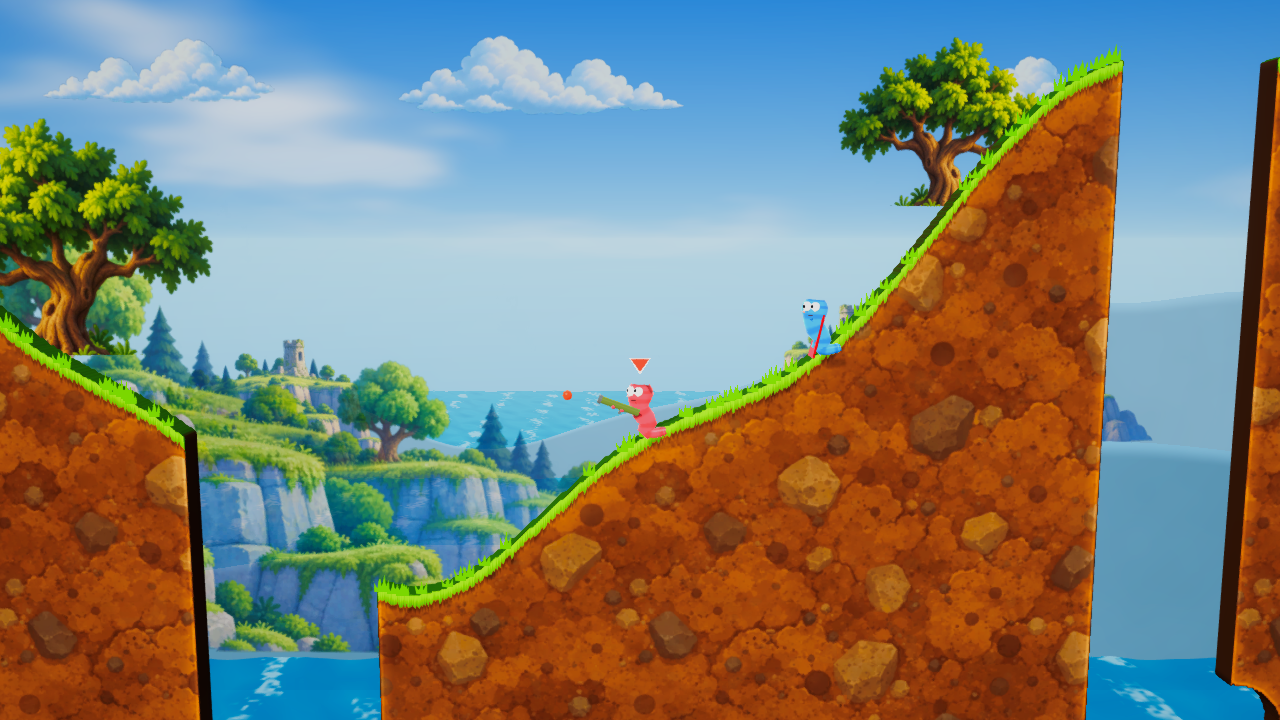
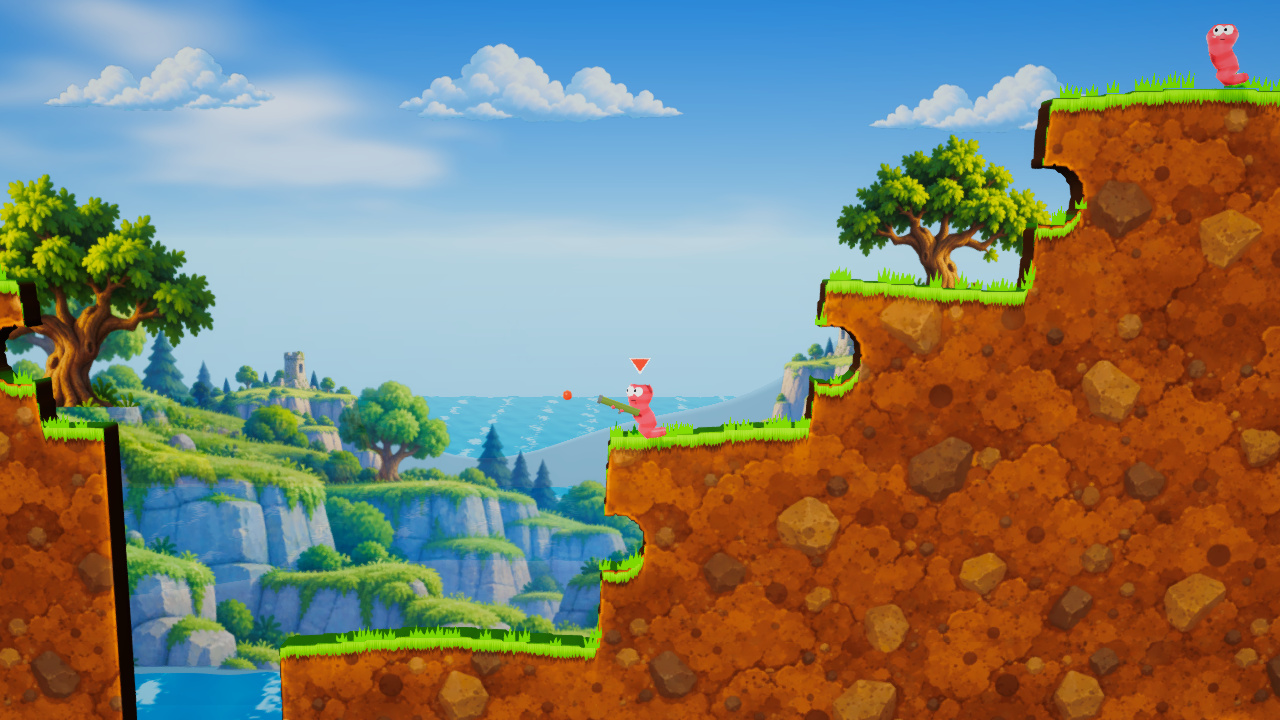
graphics: generate terraced destructible maps and safe spawns

diff --git a/shared/Sim.Tests/TerrainTests.cs b/shared/Sim.Tests/TerrainTests.cs
@@ -23,6 +23,92 @@ namespace Worms.Sim.Tests
             Assert.False(t.IsSolid(0, t.Height / 3)); // edges taper into the sea
         }
 
+        [Theory]
+        [InlineData(5u)]
+        [InlineData(123456u)]
+        [InlineData(123457u)]
+        public void GeneratedMapHasBroadTerracesAndInteriorCliffs(uint seed)
+        {
+            var t = MapGenerator.Generate(seed);
+            var surface = new int[t.Width];
+            for (int x = 0; x < t.Width; x++)
+            {
+                surface[x] = -1;
+                for (int y = 0; y < t.Height; y++)
+                    if (t.IsSolid(x, y)) { surface[x] = y; break; }
+            }
+
+            int broadTerraces = 0, interiorCliffs = 0, run = 0, steepestCell = 0, steepestX = -1;
+            for (int x = 81; x < t.Width - 81; x++)
+            {
+                int a = surface[x - 1], b = surface[x];
+                if (a < 0 || b < 0) { run = 0; continue; }
+                int cellRise = System.Math.Abs(b - a);
+                if (cellRise > steepestCell) { steepestCell = cellRise; steepestX = x; }
+                if (cellRise <= 3) run++;
+                else
+                {
+                    if (run >= 55) broadTerraces++;
+                    run = 0;
+                }
+                if (x + 8 < t.Width && surface[x + 8] >= 0 &&
+                    System.Math.Abs(surface[x + 8] - a) >= 40)
+                {
+                    interiorCliffs++;
+                    x += 8;
+                }
+            }
+            if (run >= 55) broadTerraces++;
+            Assert.True(broadTerraces >= 4, $"Seed {seed}: only {broadTerraces} broad terraces");
+            Assert.True(interiorCliffs >= 3, $"Seed {seed}: only {interiorCliffs} interior cliffs");
+            Assert.True(steepestCell <= 55, $"Seed {seed}: a {steepestCell}-cell vertical wall at x={steepestX} ({surface[steepestX - 1]} to {surface[steepestX]}) looks like a box");
+        }
+
+        [Theory]
+        [InlineData(0u)]
+        [InlineData(1u)]
+        [InlineData(42u)]
+        [InlineData(5u)]
+        [InlineData(9999u)]
+        [InlineData(123456u)]
+        [InlineData(123457u)]
+        public void WormsSpawnStandingOnTerracedMap(uint seed)
+        {
+            var world = new World(new MatchSetup { Seed = seed, Teams = 4, WormsPerTeam = 4 });
+            foreach (var worm in world.Worms)
+            {
+                Assert.True(Worm.IsStanding(world.Terrain, worm.Pos),
+                    $"Seed {seed}: worm {worm.Id} is not standing at {worm.Pos}");
+                Assert.True(worm.Pos.Y < world.WaterLevel - 3 * C.WormRadius,
+                    $"Seed {seed}: worm {worm.Id} spawned too close to water");
+                int x = (int)worm.Pos.X;
+                float? left = world.SurfaceY(x - 18), right = world.SurfaceY(x + 18);
+                Assert.True(left.HasValue && right.HasValue &&
+                    System.Math.Abs(left.Value - worm.Pos.Y) <= C.MaxClimb &&
+                    System.Math.Abs(right.Value - worm.Pos.Y) <= C.MaxClimb,
+                    $"Seed {seed}: worm {worm.Id} spawned too close to a cliff");
+            }
+        }
+
+        [Fact]
+        public void FourTeamSpawnsRemainSafeAcrossManySeeds()
+        {
+            for (uint seed = 0; seed < 32; seed++)
+            {
+                var world = new World(new MatchSetup { Seed = seed, Teams = 4, WormsPerTeam = 4 });
+                foreach (var worm in world.Worms)
+                {
+                    int x = (int)worm.Pos.X;
+                    float? left = world.SurfaceY(x - 18), right = world.SurfaceY(x + 18);
+                    Assert.True(Worm.IsStanding(world.Terrain, worm.Pos) &&
+                        left.HasValue && right.HasValue &&
+                        System.Math.Abs(left.Value - worm.Pos.Y) <= C.MaxClimb &&
+                        System.Math.Abs(right.Value - worm.Pos.Y) <= C.MaxClimb,
+                        $"Seed {seed}: worm {worm.Id} lacks a safe shelf");
+                }
+            }
+        }
+
         [Fact]
         public void CarveRemovesExactlyTheDisc()
         {

diff --git a/shared/com.worms.sim/Runtime/MapGenerator.cs b/shared/com.worms.sim/Runtime/MapGenerator.cs
@@ -14,17 +14,50 @@ namespace Worms.Sim
             float baseY = height * rng.Range(0.42f, 0.52f);
             float a1 = rng.Range(80f, 140f), f1 = twoPi / width * rng.Range(1f, 2f), p1 = rng.Range(0f, twoPi);
             float a2 = rng.Range(30f, 70f), f2 = twoPi / width * rng.Range(3f, 5f), p2 = rng.Range(0f, twoPi);
-            float a3 = rng.Range(8f, 20f), f3 = twoPi / width * rng.Range(9f, 14f), p3 = rng.Range(0f, twoPi);
+            float f3 = twoPi / width * rng.Range(9f, 14f), p3 = rng.Range(0f, twoPi);
             int margin = 60;
+            const float terraceHeight = 80f;
+            var surfaceTops = new int[width];
 
             for (int x = 0; x < width; x++)
             {
-                float surface = baseY + a1 * (float)Math.Sin(x * f1 + p1) + a2 * (float)Math.Sin(x * f2 + p2) + a3 * (float)Math.Sin(x * f3 + p3);
+                float surface = baseY + a1 * (float)Math.Sin(x * f1 + p1) + a2 * (float)Math.Sin(x * f2 + p2);
                 // Taper both edges down into the sea so the map reads as islands.
                 float edge = Math.Min(x, width - 1 - x);
                 if (edge < margin * 3) surface += (margin * 3 - edge) * 1.6f;
-                int top = Math.Max(120, (int)surface);
-                t.FillRect(x, top, x + 1, height, true);
+                // The collision mask itself forms wide playable shelves and sharp cliffs.
+                // A small ripple breaks up the top line without adding impassable bumps.
+                int level = (int)Math.Round(surface / terraceHeight);
+                float terrace = level * terraceHeight + 10f * (float)Math.Sin(level * 2.37f + p1);
+                float ripple = 2.5f * (float)Math.Sin(x * f3 + p3);
+                int top = Math.Max(120, (int)(terrace + ripple));
+                surfaceTops[x] = top;
+            }
+
+            var squareTops = (int[])surfaceTops.Clone();
+            for (int x = 4; x < width - 4; x++)
+            {
+                if (Math.Abs(squareTops[x] - squareTops[x - 1]) < 40) continue;
+                int left = squareTops[x - 4], right = squareTops[x + 4];
+                for (int offset = -3; offset <= 3; offset++)
+                {
+                    float blend = (offset + 4) / 8f;
+                    blend = blend * blend * (3f - 2f * blend);
+                    surfaceTops[x + offset] = (int)(left + (right - left) * blend);
+                }
+            }
+            for (int x = 0; x < width; x++)
+                t.FillRect(x, surfaceTops[x], x + 1, height, true);
+
+            // Shallow alcoves break up the straight cliff silhouette. They are part
+            // of the same destructible collision mask, not a separate visual mesh.
+            for (int x = margin; x < width - margin; x++)
+            {
+                int delta = squareTops[x] - squareTops[x - 1];
+                if (Math.Abs(delta) < 40) continue;
+                int landX = delta > 0 ? x - 6 : x + 6;
+                int upper = Math.Min(squareTops[x], squareTops[x - 1]);
+                t.CarveCircle(landX, upper + Math.Abs(delta) / 2, 13);
             }
 
             // One or two sea channels split the land into islands.

diff --git a/client/Assets/Game/Core/TerrainField.cs b/client/Assets/Game/Core/TerrainField.cs
@@ -101,13 +101,23 @@ namespace Worms.Game.Core
         {
             for (int x = x0; x < x1; x++)
             {
-                // Count the solid run above y0 (capped), then walk down.
+                // Count the solid run above y0 and remember whether the column
+                // has a roof. Floors inside caves or cliff alcoves are soil,
+                // even when an air gap resets the local solid-run depth.
                 int run = 0;
-                for (int y = Math.Max(0, y0 - MaxDepth); y < y0; y++) run = _t.IsSolid(x, y) ? Math.Min(MaxDepth, run + 1) : 0;
+                bool covered = false;
+                for (int y = 0; y < y0; y++)
+                {
+                    bool solid = _t.IsSolid(x, y);
+                    if (solid) covered = true;
+                    run = solid ? Math.Min(MaxDepth, run + 1) : 0;
+                }
                 for (int y = y0; y < y1; y++)
                 {
-                    int above = run;
-                    run = _t.IsSolid(x, y) ? Math.Min(MaxDepth, run + 1) : 0;
+                    int above = run == 0 && covered ? MaxDepth : run;
+                    bool solid = _t.IsSolid(x, y);
+                    if (solid) covered = true;
+                    run = solid ? Math.Min(MaxDepth, run + 1) : 0;
                     Data[(y * Width + x) * 2 + 1] = (byte)(above * 255 / MaxDepth);
                 }
             }

diff --git a/shared/com.worms.sim/Runtime/World.cs b/shared/com.worms.sim/Runtime/World.cs
@@ -464,6 +464,13 @@ namespace Worms.Sim
                 int x = rng.Range(80, Terrain.Width - 80);
                 float? y = SurfaceY(x);
                 if (y == null || y.Value > WaterLevel - 3 * C.WormRadius) continue;
+                // Keep a short walkable shelf on both sides of every spawn. On the
+                // terraced maps a valid standing point can sit right at a cliff lip.
+                const int shelfClearance = 18;
+                float? left = SurfaceY(x - shelfClearance), right = SurfaceY(x + shelfClearance);
+                if (left == null || right == null ||
+                    Math.Abs(left.Value - y.Value) > C.MaxClimb ||
+                    Math.Abs(right.Value - y.Value) > C.MaxClimb) continue;
                 var p = new Vec2(x + 0.5f, y.Value);
                 bool crowded = Worms.Exists(wm => Math.Abs(wm.Pos.X - p.X) < 40f && Math.Abs(wm.Pos.Y - p.Y) < 40f);
                 if (!crowded || attempt > 400) return p;

diff --git a/client/DotnetTests/GameCore.Tests/TerrainFieldTests.cs b/client/DotnetTests/GameCore.Tests/TerrainFieldTests.cs
@@ -39,5 +39,16 @@ namespace Worms.Game.Core.Tests
             // The crater rim is an edge now.
             Assert.InRange(f.EdgeCells(150, 131), 0.9f, 1.2f);
         }
+
+        [Fact]
+        public void BuriedCavityFloorDoesNotBecomeGrass()
+        {
+            var t = Ground();
+            var f = new TerrainField(t);
+            var dirty = t.CarveCircle(150, 130, 12);
+            f.Update(dirty);
+            Assert.InRange(f.CellsAbove(150, 100), 0f, 0.1f);
+            Assert.InRange(f.CellsAbove(150, 143), TerrainField.MaxDepth - 0.1f, TerrainField.MaxDepth);
+        }
     }
 }

diff --git a/shared/com.worms.protocol/Runtime/ProtocolInfo.cs b/shared/com.worms.protocol/Runtime/ProtocolInfo.cs
@@ -2,8 +2,8 @@ namespace Worms.Protocol
 {
     public static class ProtocolInfo
     {
-        /// <summary>Bumped on every wire-format change; the server rejects other versions.</summary>
-        public const ushort Version = 7;
+        /// <summary>Bumped when wire format or seed-derived world data changes; the server rejects other versions.</summary>
+        public const ushort Version = 8;
     }
 
     /// <summary>First byte after the version header of every message.</summary>

diff --git a/docs/GRAPHICS_HANDOFF.md b/docs/GRAPHICS_HANDOFF.md
@@ -38,9 +38,9 @@ Make the match read as a polished, playful 2.5D game at desktop and mobile sizes
 
 The user selected this generated image as the art direction. It is a visual target, not a screenshot or importable asset sheet. Match its palette, layering, silhouettes, terrain texture, and HUD hierarchy. Adapt trees, ruins, small props, and worm accessories to the game's existing destructible world without changing gameplay or exceeding the WebGL2 budget.
 
-The user's later screenshot exposed a mistaken handoff: the displayed match camera image did not represent the opening menu, and the live world was further from this concept than the handoff implied. The current [match camera](visuals/world-current-fixed-seed.png) and [menu camera](visuals/menu-integrated-camera.png) are actual hidden Windows player renders from Unity 6000.3.25f1. They show painted soil, coastal scenery and menu composition, but still have smooth procedural slopes, comparatively small worms and sparse interactive set dressing. Both camera captures omit IMGUI, so neither verifies the live HUD or menu controls. The concept's terraced cliffs, dense foreground, explosion composition and HUD have **not** been reproduced as shown. These are open visual acceptance items, not completed claims.
+The user's later screenshot exposed a mistaken handoff: the displayed match camera image did not represent the opening menu, and the live world was further from this concept than the handoff implied. The current [match camera](visuals/world-current-fixed-seed.png) and [menu camera](visuals/menu-integrated-camera.png) are actual hidden Windows player renders from Unity 6000.3.25f1. The match now has broad walkable shelves, high destructible cliffs, and small alcoves in their sides. Painted soil and coastal scenery help match the palette. Worms remain comparatively small and set dressing is sparse. Both camera captures omit IMGUI, so neither verifies the live HUD or menu controls. The concept's exact cliff shapes, dense foreground, explosion composition and HUD have **not** been reproduced as shown.
 
-This pass adds a repeating painted-soil texture (Medium/High match tiers), a non-colliding painted oak cutout behind the battle plane, a closer default battle camera, and a menu composition that reveals the coastal painting. Low match tier keeps the procedural soil shader. Trees are anchored when the match begins; crater damage beneath them can leave a cutout visually unsupported, so dynamic ground anchoring remains open. The terrain silhouette still comes from simulation cells, and making it match the concept's terraces would require a deliberate map-design and gameplay review.
+This pass adds a repeating painted-soil texture (Medium/High match tiers), a non-colliding painted oak cutout behind the battle plane, a closer default battle camera, and a menu composition that reveals the coastal painting. Low match tier keeps the procedural soil shader. Trees are anchored when the match begins; crater damage beneath them can leave a cutout visually unsupported, so dynamic ground anchoring remains open. With the user's approval to change movement, the seed-based simulation map now forms broad terraces and cliffs; spawns require a short level shelf in both directions. Normal jumps cannot cross every wall, and players may need a backflip or a mobility weapon. The protocol version is 8 so an older client cannot reconstruct a different map from the same seed during an online match.
 
 Soft clay and heavy comic inking were considered; the user selected the crisp cartoon reference above.
 
@@ -124,7 +124,7 @@ After a user reported that the built app's opening menu did not resemble the app
 
 **Open verification:** real mobile portrait/landscape, WebGL2 browser runtime, FPS and memory on mobile browser, connected-lobby and game-over captures, long names, four teams and touch interaction.
 
-On 2026-09-27, the integrated branch passed all **144 .NET tests** (47 GameCore, 32 Server, 10 Protocol, 55 Sim). One parallel solution run had a non-reproduced server-test failure; that test passed alone, the server suite passed, and both a serialized full run and another default parallel full run passed. Native and WebGL C# checks built with zero warnings and errors. Disposable project copies built successfully for Windows and WebGL in hidden batch mode with zero errors under both Unity 6000.6.3f1 and the project's pinned **Unity 6000.3.25f1**. Current world captures use the 6000.6.3f1 Windows build. The pinned-editor copy omitted a preview-only screenshot helper because the source project's manifest does not include its capture/PNG API modules; game source was unchanged. The browser connection available in this workspace reported no browser instances, so WebGL runtime and touch interaction remain unverified. Per the user's request, checks run hidden and do not open a visible game window or take new GUI screenshots.
+On 2026-09-27, the terraced-map branch passed all **156 .NET tests** (48 GameCore, 32 Server, 10 Protocol, 66 Sim). The added tests cover cliff and shelf generation, safe spawn ground on seven named seeds and 32 sequential seeds, and soil shading inside buried cavities. The Unity C# check built with zero warnings and errors. Windows and WebGL builds succeeded with zero errors under the project's pinned **Unity 6000.3.25f1** editor. The current [Beach](visuals/world-current-fixed-seed.png) and [Meadow](visuals/world-terraces-meadow.png) captures come from a Windows player with a preview-only camera helper; they omit IMGUI. The earlier 6000.6.3f1 captures remain historical evidence. Browser runtime, touch interaction, GUI layout, and mobile FPS/memory remain unverified. Although the editor and player were started with hidden-window flags, the user reported repeated focus loss. Those flags did not reliably protect focus, so no further Unity/player launches were made after that report.
 
 [High](visuals/explosion-high.png) and [Low](visuals/explosion-low.png) explosion captures show the quality-tier difference in particle density. These are forced VFX states in the disposable preview, not a full gameplay shot with a resulting crater. Reduced motion disables camera shake, active-marker bob, victory hop, and popup rise, and lowers particle density; the setting is implemented and compiled, but its interactive behavior has not been visually verified.
 
